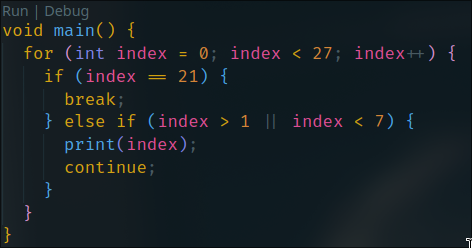
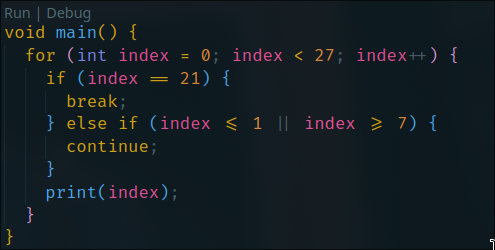
update: Tugas & Image Praktikum 3

diff --git a/Pertemuan 3/Praktikum3.dart b/Pertemuan 3/Praktikum3.dart
@@ -2,9 +2,9 @@ void main() {
   for (int index = 0; index < 27; index++) {
     if (index == 21) {
       break;
-    } else if (index > 1 || index < 7) {
-      print(index);
+    } else if (index <= 1 || index >= 7) {
       continue;
     }
+    print(index);
   }
 }

diff --git a/Pertemuan 3/tugas.dart b/Pertemuan 3/tugas.dart
@@ -1,0 +1,8 @@
+void main() {
+  for (int i = 0; i <= 201; i++) {
+    if (i % 2 != 0) {
+      print("Bilangan Prima: $i");
+      print("Gaco Razan Kamil - 2241720091");
+    }
+  }
+}

diff --git a/Pertemuan 3/README.md b/Pertemuan 3/README.md
@@ -3,14 +3,16 @@
 ## Soal 1
 Silakan selesaikan Praktikum 1 sampai 3, lalu dokumentasikan berupa screenshot hasil pekerjaan beserta penjelasannya!
 
-- Praktikum 1
+- Praktikum 1 <br>
+
 1.1. Silakan coba eksekusi (Run) kode pada langkah 1 tersebut. Apa yang terjadi? Jelaskan
 
 Code : <br>
     ![image1.1-code](./image/praktikum1-code.png)<br>
 Output : <br>
     ![image1.1-output](./image/output-praktikum1.1.png)<br>
-Penjelasan :<br> Dari kode tersebut dart akan melakukan pengecekan apakah value dari variabel test yaitu "test 2" sesuai dengan if conditions-nya atau tidak jika sesuai dart akan melakukan print output berupa "Test2". Jika value merupakan "test 1" akan mengembalikan output "Test1". Jika value tidak cocok dengan seluruh if conditions akan mengembalikan output "Something else"
+Penjelasan :<br> 
+Dari kode tersebut dart akan melakukan pengecekan apakah value dari variabel test yaitu "test 2" sesuai dengan if conditions-nya atau tidak jika sesuai dart akan melakukan print output berupa "Test2". Jika value merupakan "test 1" akan mengembalikan output "Test1". Jika value tidak cocok dengan seluruh if conditions akan mengembalikan output "Something else"
 
 1.2 Tambahkan kode program berikut, lalu coba eksekusi (Run) kode Anda.
 ```
@@ -30,6 +32,7 @@ Output : <br>
 Penjelasan : <br> Dari kode tersebut akan melakukan return output yaitu "Kebenaran" karena pada statement menggunakan "==" operator yang dimana akan melakukan pengecekan value dan tipe data jika pada dart.
 
 - Praktikum 2 <br>
+
 2.1 Silakan coba eksekusi (Run) kode pada langkah 1 tersebut. Apa yang terjadi? Jelaskan! Lalu perbaiki jika terjadi error.
 ```
 while (counter < 33) {
@@ -95,3 +98,34 @@ Output : <br>
     ![output3.2](./image/praktikum3.2-output.png) <br>
 Penjelasan : <br>
 Dari kode tersebut dart akan melakukan perulangan for hingga kurang dari 27. Dan ketika value dari variable index mencapai 21 dart akan melakukan break terhadap looping dan jika value variable index lebih dari 1 atau kurang dari 7 dart akan melakukan print index dan continue perulangan.
+
+## Soal 2
+Buatlah sebuah program yang dapat menampilkan bilangan prima dari angka 0 sampai 201 menggunakan Dart. Ketika bilangan prima ditemukan, maka tampilkan nama lengkap dan NIM Anda.
+
+Jawaban : 
+
+Code : 
+```
+void main() {
+  for (int i = 0; i <= 201; i++) {
+    if (i % 2 != 0) {
+      print("Bilangan Prima: $i");
+      print("Gaco Razan Kamil - 2241720091");
+    }
+  }
+}
+```
+
+Output : 
+```
+Bilangan Prima: 193
+Gaco Razan Kamil - 2241720091
+Bilangan Prima: 195
+Gaco Razan Kamil - 2241720091
+Bilangan Prima: 197
+Gaco Razan Kamil - 2241720091
+Bilangan Prima: 199
+Gaco Razan Kamil - 2241720091
+Bilangan Prima: 201
+Gaco Razan Kamil - 2241720091
+```
